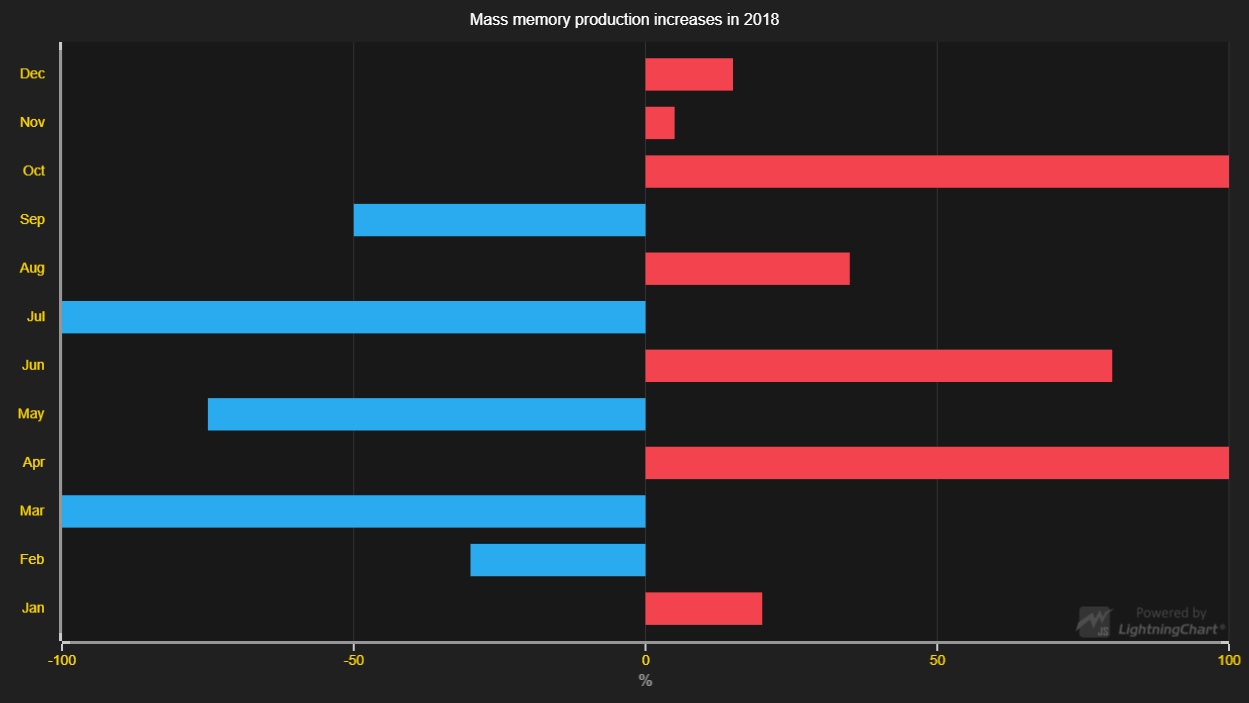
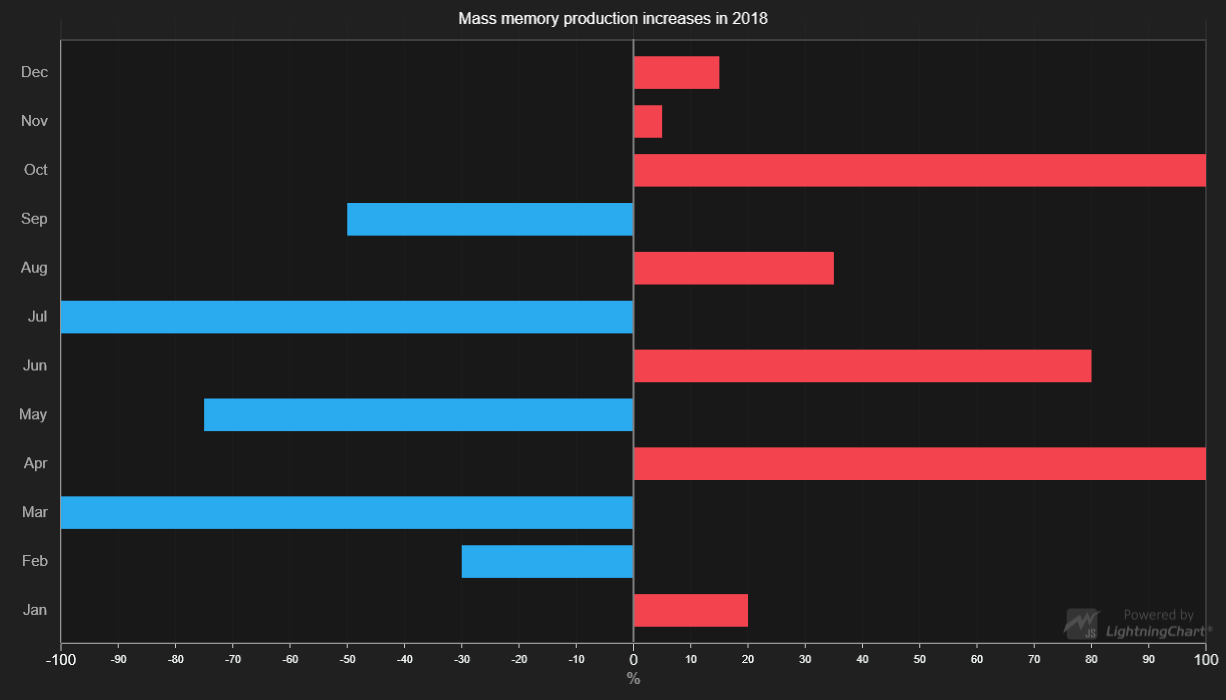
LCJS 2.0.0

diff --git a/src/index.js b/src/index.js
@@ -12,9 +12,10 @@ const {
     ColorRGBA,
     emptyLine,
     emptyFill,
-    emptyTick,
+    AxisTickStrategies,
     AutoCursorModes,
-    UIOrigins
+    UIOrigins,
+    Themes
 } = lcjs
 
 const lc = lightningChart()
@@ -105,14 +106,14 @@ let barChart
             .setMouseInteractions(false)
             .setScrollStrategy(undefined)
             // Disable default ticks.
-            .setTickStyle(emptyTick)
+            .setTickStrategy(AxisTickStrategies.Empty)
 
         //Add middle line
         const constantLine = axisX.addConstantLine()
         constantLine.setValue(0)
             .setMouseInteractions(false)
             .setStrokeStyle(new SolidLine(
-                { thickness: 2, fillStyle: new SolidFill({ color: ColorRGBA(125,125,125) }) }))
+                { thickness: 2, fillStyle: new SolidFill({ color: ColorRGBA(125, 125, 125) }) }))
 
         /**
          * Add multiple bars.
@@ -164,6 +165,7 @@ let barChart
                         .setFillStyle(emptyFill)
                         .setStrokeStyle(emptyLine)
                     )
+                    .setTextFillStyle(new SolidFill({ color: ColorRGBA(170, 170, 170) }))
                 )
             y += figureThickness + figureGap
             // Return data-structure with both original 'entry' and the rectangle figure that represents it.
@@ -182,7 +184,9 @@ let barChart
 }
 
 // Use bar chart interface to construct series.
-const chart = barChart()
+const chart = barChart({
+    // theme: Themes.dark
+})
 // Add multiple bars at once.
 chart.addValues([
     { category: 'Jan', value: 20 },

diff --git a/README.md b/README.md
@@ -43,17 +43,17 @@ The actual Bar Chart logic just serves to provide a starting point for users to 
 
 ## API Links
 
-* XY cartesian chart: [ChartXY]
-* Rectangle series: [RectangleSeries]
-* Solid FillStyle: [SolidFill]
-* Empty FillStyle: [emptyFill]
-* Solid LineStyle: [SolidLine]
-* Empty LineStyle: [emptyLine]
-* RGBA color factory: [ColorRGBA]
-* cursor modes: [AutoCursorModes]
-* Axis: [Axis]
-* Scroll strategies: [AxisScrollStrategies]
-* UI position origins: [UIOrigins]
+* [XY cartesian chart]
+* [Rectangle series]
+* [Solid FillStyle]
+* [Empty FillStyle]
+* [Solid LineStyle]
+* [Empty LineStyle]
+* [RGBA color factory]
+* [cursor modes]
+* [Axis]
+* [Scroll strategies]
+* [UI position origins]
 
 
 ## Support
@@ -77,15 +77,15 @@ Direct developer email support can be purchased through a [Support Plan][4] or b
 © Arction Ltd 2009-2020. All rights reserved.
 
 
-[ChartXY]: https://www.arction.com/lightningchart-js-api-documentation/v1.3.0/classes/chartxy.html
-[RectangleSeries]: https://www.arction.com/lightningchart-js-api-documentation/v1.3.0/classes/rectangleseries.html
-[SolidFill]: https://www.arction.com/lightningchart-js-api-documentation/v1.3.0/classes/solidfill.html
-[emptyFill]: https://www.arction.com/lightningchart-js-api-documentation/v1.3.0/globals.html#emptyfill
-[SolidLine]: https://www.arction.com/lightningchart-js-api-documentation/v1.3.0/classes/solidline.html
-[emptyLine]: https://www.arction.com/lightningchart-js-api-documentation/v1.3.0/globals.html#emptyline
-[ColorRGBA]: https://www.arction.com/lightningchart-js-api-documentation/v1.3.0/globals.html#colorrgba
-[AutoCursorModes]: https://www.arction.com/lightningchart-js-api-documentation/v1.3.0/enums/autocursormodes.html
-[Axis]: https://www.arction.com/lightningchart-js-api-documentation/v1.3.0/classes/axis.html
-[AxisScrollStrategies]: https://www.arction.com/lightningchart-js-api-documentation/v1.3.0/globals.html#axisscrollstrategies
-[UIOrigins]: https://www.arction.com/lightningchart-js-api-documentation/v1.3.0/globals.html#uiorigins
+[XY cartesian chart]: https://www.arction.com/lightningchart-js-api-documentation/v2.0.0/classes/chartxy.html
+[Rectangle series]: https://www.arction.com/lightningchart-js-api-documentation/v2.0.0/classes/rectangleseries.html
+[Solid FillStyle]: https://www.arction.com/lightningchart-js-api-documentation/v2.0.0/classes/solidfill.html
+[Empty FillStyle]: https://www.arction.com/lightningchart-js-api-documentation/v2.0.0/globals.html#emptyfill
+[Solid LineStyle]: https://www.arction.com/lightningchart-js-api-documentation/v2.0.0/classes/solidline.html
+[Empty LineStyle]: https://www.arction.com/lightningchart-js-api-documentation/v2.0.0/globals.html#emptyline
+[RGBA color factory]: https://www.arction.com/lightningchart-js-api-documentation/v2.0.0/globals.html#colorrgba
+[cursor modes]: https://www.arction.com/lightningchart-js-api-documentation/v2.0.0/enums/autocursormodes.html
+[Axis]: https://www.arction.com/lightningchart-js-api-documentation/v2.0.0/classes/axis.html
+[Scroll strategies]: https://www.arction.com/lightningchart-js-api-documentation/v2.0.0/globals.html#axisscrollstrategies
+[UI position origins]: https://www.arction.com/lightningchart-js-api-documentation/v2.0.0/globals.html#uiorigins
 
